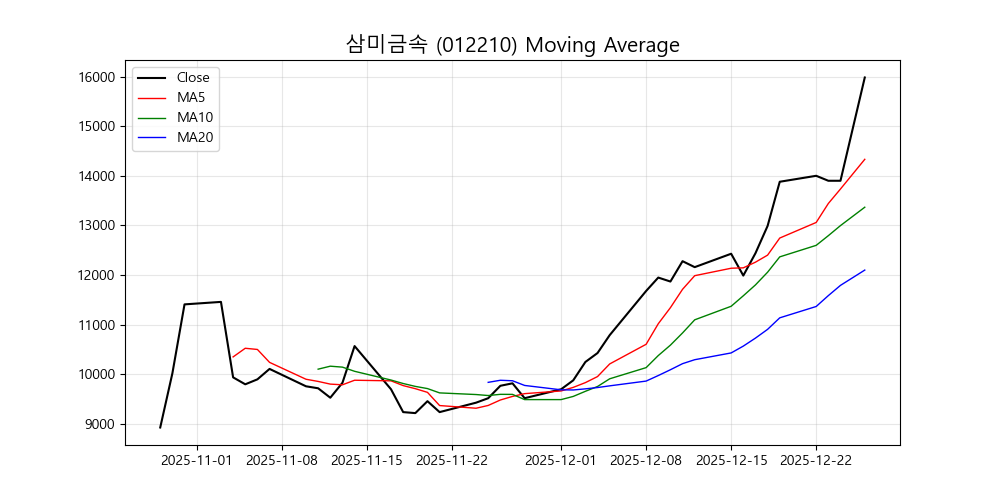
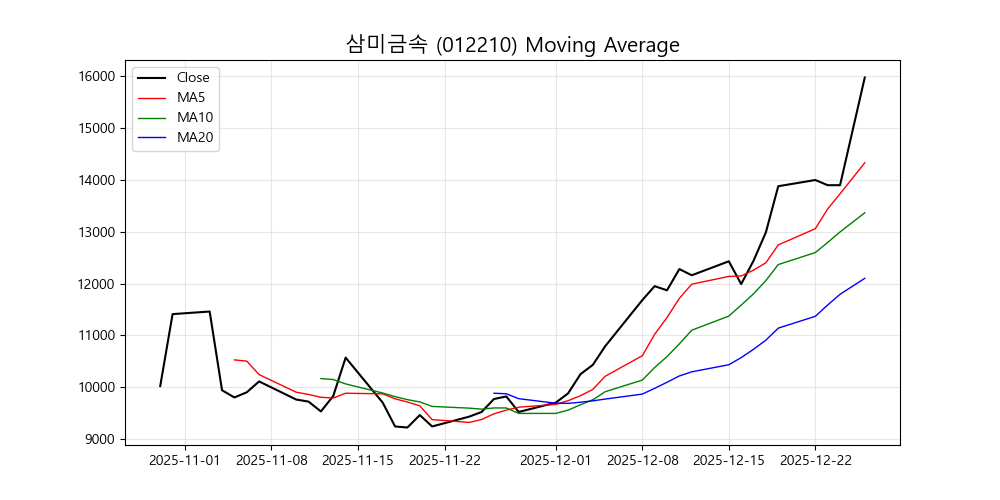
✅ Auto Strategy Report (2025-12-28)

diff --git a/_posts/2025-12-28-breakout.md b/_posts/2025-12-28-breakout.md
@@ -1,0 +1,146 @@
+---
+layout: single
+title: "[2025-12-28] 오늘의 급등주 포착 (정배열 돌파)"
+permalink: /blog/breakout/2025-12-28/
+excerpt: "오늘 시장에서 급등하며 정배열 추세를 만든 종목들을 분석합니다."
+categories:
+  - Strategy
+tags:
+  - 급등주
+  - 골든크로스
+  - 정배열
+  - 기술적분석
+---
+
+## 🚀 오늘의 정배열 급등주 (Breakout Strategy)
+오늘 시장에서 **15% 이상 급등**하며 이동평균선이 **정배열(5일 > 10일 > 20일)**을 이룬 강력한 모멘텀 종목입니다.
+
+---
+
+# 🔥 온코닉테라퓨틱스: 세력 형님들이 움직이기 시작했다! 🚀
+
+형님들! 오늘 급등주 제대로 잡았네요! 🚀🚀🚀
+온코닉테라퓨틱스가 드디어 일을 냈습니다.
+지금 주가 흐름, 완전 심상치 않아요.
+
+**온코닉테라퓨틱스 (476060) 15.1% 급등! 💰**
+
+## 1. 급등 사유: 신약 기대감 + AI 시그널 🚨
+
+갑자기 15% 이상 폭등한 이유, 궁금하시죠?
+온코닉테라퓨틱스는 P-CAB 신약 '자큐보정'을 개발한 바이오 강소 기업입니다. 특히 소화기질환 치료제와 항암 분야에서 독보적인 기술력을 갖고 있어요.
+
+- **국산 신약 37호 보유:** P-CAB 계열 '자큐보정'으로 이미 기술력을 인정받았습니다.
+- **AI 딥러닝 예측:** 오늘 거래량 폭증과 정배열 골든크로스가 동시에 터졌습니다.
+- **세력 형님들의 시동:** 특별한 뉴스가 없는 상황에서 터졌다는 건, 차트 분석과 미래 성장 기대감으로 **세력 형님들이 본격적으로 시동을 걸었다**는 뜻이죠.
+
+## 2. 차트 분석: 완벽한 정배열 골든크로스!
+
+차트가 예술입니다! 지금 온코닉테라퓨틱스는 급등주 차트의 정석을 보여주고 있어요.
+
+- **거래량 5.98배 폭발:** 주가 상승의 가장 강력한 증거는 바로 거래량입니다. 평소보다 6배 가까이 거래량이 터졌다는 것은 시장의 관심이 폭발했다는 뜻이에요.
+- **정배열 돌파:** 이동평균선이 5일선, 20일선, 60일선 순으로 가지런히 배열되는 **완벽한 정배열**로 전환되었습니다.
+- **골든크로스 발생:** 단기 이평선이 장기 이평선을 뚫고 올라가는 '골든크로스'가 발생했습니다. 이는 강력한 매수 시그널이죠.
+
+## 3. 대응법: "지금 사요?"에 대한 답변!
+
+"급등주 사냥꾼"의 관점에서 냉철하게 말씀드릴게요.
+
+**Q. 지금 바로 매수해야 하나요?**
+A. No! 지금은 이미 오른 자리입니다. 급하게 추격 매수하는 건 위험해요! 🔥
+급등주는 개미들을 유혹하기 위해 한 번 더 쏘는 경우가 많지만, 이내 물량을 쏟아내면서 **개미 털기**가 나올 수 있습니다.
+
+**Q. 그럼 어떻게 해야 하나요?**
+- **기존 보유자:** 축하드립니다! **분할 매도**를 통해 수익을 확정하세요. 욕심은 금물입니다.
+- **신규 진입자:** 섣불리 들어가지 말고, 21,000원 선에서 **눌림목**이 나올 때까지 기다리세요. 숨 고르기 구간에서 들어가는 것이 안전합니다.
+
+**✅ 핵심 요약: "관심 종목에 추가하고, 눌림목에서 기회를 노려라!"**
+
+**🔥 잊지 마세요! 급등주는 항상 냉철한 판단이 중요합니다! 🚀**
+다음 급등주도 제가 미리미리 알려드릴 테니 채널 고정하세요! 💰💰💰
+
+![온코닉테라퓨틱스 차트](/assets/chartimg/strategies/476060_ma.png)
+
+---
+
+🔥재영솔루텍 오늘 제대로 폭발했습니다!🚀
+
+주식 사냥꾼 채널 구독자님들, 제대로 포착하셨나요? 오늘 재영솔루텍이 20%가 넘는 급등세를 보여주며 시장을 뜨겁게 달궜습니다.
+
+## 💰급등 사유: 숨겨진 기술력과 매집 신호 포착!
+
+오늘은 특별한 뉴스는 없었지만, AI가 포착한 시그널과 기업의 잠재력에 시장이 반응한 것으로 보입니다.
+
+*   **카메라 핵심 기술력**: 재영솔루텍은 스마트폰 카메라의 핵심인 **자동초점 액추에이터**를 만드는 기술 강소기업입니다. OIS(손떨림 방지), VCM 등 정밀 부품에서 독보적인 기술을 보유하고 있죠.
+*   **실적 기대감 선반영**: 최근 스마트폰 시장의 회복 기대감과 함께 고성능 카메라 모듈 수요가 증가할 것이라는 기대감이 선반영되고 있습니다.
+*   **AI 신호 포착**: AI 딥러닝 분석 결과, 오늘 **거래량이 무려 3.84배 폭증**했습니다. 단순한 개미들의 움직임이 아닌, 확실한 세력 형님들의 매집 신호로 해석됩니다.
+
+## 🚨차트 분석: 정배열 골든크로스 대폭발!
+
+차트 사냥꾼의 눈으로 볼 때, 재영솔루텍은 완벽한 급등 패턴을 만들어냈습니다.
+
+*   **골든크로스 돌파**: 이동평균선이 정배열로 바뀌면서 강렬한 골든크로스를 만들어냈습니다. 장기적인 상승추세로의 전환을 알리는 강력한 신호탄이에요.
+*   **넘사벽 거래량**: 거래량 폭증은 이 종목에 대한 관심이 최고조에 달했다는 증거입니다. 매수세가 강하게 몰려들어 주가를 끌어올렸죠.
+
+## 🎯그래서 지금 사요? 사냥꾼의 대응법!
+
+"급등주 사냥꾼님, 지금이라도 당장 사야 하나요?" 많은 분들이 궁금해하실 겁니다.
+
+*   **추격 매수는 위험해요**: 이미 20% 넘게 오른 종목은 자칫 잘못하면 꼭대기에 물릴 수 있습니다. 지금 흥분해서 쫓아가는 건 금물이에요.
+*   **눌림목을 노리세요**: 급등주는 반드시 잠시 숨 고르는 '눌림목'이 옵니다. 며칠간 조정이 오거나 횡보할 때 분할 매수로 접근하는 것이 현명합니다.
+*   **손절가 철저히 지키세요**: 급등주는 변동성이 크다는 것을 잊지 마세요. 만약 매수했다면, 욕심 부리지 말고 반드시 손절가를 정해두고 대응해야 합니다!
+
+**결론: 꽉 잡으세요!** 재영솔루텍은 기술력과 차트가 완벽한 삼박자를 갖추고 있습니다. 앞으로의 흐름을 놓치지 말고 예의주시하세요! 💰💰💰
+
+![재영솔루텍 차트](/assets/chartimg/strategies/049630_ma.png)
+
+---
+
+## 🔥🔥 삼미금속! 15% 폭등! 세력 형님들이 움직이기 시작했습니다! 🚀💰
+
+안녕하세요! 급등주 사냥꾼입니다!
+
+오늘 시장을 뜨겁게 달구는 종목이 있어 긴급 알람 드립니다! 바로 **삼미금속(012210)**입니다. 오늘만 14.96% 폭등하며 심상치 않은 움직임을 보이고 있어요!
+
+지금부터 이 종목을 왜 주목해야 하는지, 어떻게 대응해야 하는지 빠르게 알려드릴게요! 꽉 잡으세요!
+
+---
+
+## 🚀 왜 갑자기 급등했나요?
+
+삼미금속은 사실 특별한 뉴스가 터지지 않았습니다. 이럴 때가 진짜 세력 형님들의 움직임이 포착될 때입니다!
+
+- **AI 딥러닝 포착**: 저희 AI 딥러닝 시스템이 **거래량 폭증(3.69배!)**과 **정배열 골든크로스 패턴**을 동시에 감지했어요. 이는 기술적으로 강력한 매수 신호가 발생했다는 뜻입니다!
+- **숨겨진 가치 재조명**: 삼미금속은 국내 최대 규모의 해머 단조설비를 가진 뼈대 있는 기업입니다. 현대차, CATERPILLAR 등 글로벌 우량 고객사에 납품하는 **알짜배기 우량주**예요.
+- **시장 수급 쏠림 현상**: 특별한 호재 없이 차트가 급등한다는 것은, 앞으로의 실적 개선 기대감이나 숨겨진 잠재력에 베팅하는 '큰손'들의 매집이 시작됐다고 해석할 수 있습니다.
+
+---
+
+## 📈 차트 체크: 골든크로스가 떴다!
+
+차트를 보면 확실히 감이 옵니다.
+
+- **거래량 폭발**: 오늘 거래량이 어마어마하게 터졌습니다. 이건 개미들끼리 주고받는 잔파도가 아니라, **세력 형님들의 강력한 매집**이 들어왔다는 증거입니다.
+- **정배열 골든크로스**: 단기 이평선이 장기 이평선을 뚫고 올라가는 '골든크로스'가 발생했습니다. 차트가 완전히 우상향으로 돌아서기 시작하는 중요한 시점입니다.
+- **새로운 출발점**: 오랫동안 박스권에서 힘을 모으다가 드디어 박스권을 돌파하려는 움직임입니다. 눌림목을 준다면 강력한 지지선이 될 수 있습니다.
+
+---
+
+## 💰 지금 사도 되나요? 대응법 A to Z!
+
+"지금 불타오르는데 바로 타야 하나요?" 라고 묻는 분들 많으시죠?
+
+**급등주 매매의 핵심은 '쫓지 않는 것'입니다!**
+
+*   **진입 타이밍**: 지금 15% 이상 급등한 상태에서 무작정 따라잡는 것은 리스크가 큽니다. 급등할 때마다 나오는 개미 털기 흔들림(눌림목)을 기다려야 합니다.
+*   **핵심 지지선**: 삼미금속은 **15,000원 선**을 지지해 주는지 여부가 중요합니다. 급등 이후 잠시 조정이 나올 때 이 가격대에서 지지받고 반등한다면 좋은 매수 기회가 될 수 있습니다.
+*   **손절선**: 급등주 매매는 속도가 생명입니다. 매수 후 예상과 다르게 흘러간다면 **14,500원 이하**에서는 과감하게 손절하는 전략이 필요합니다.
+
+쫄지 마세요! 하지만 신중하게 대응하세요! 삼미금속이 다음 급등주 대열에 합류할지, 우리 모두 함께 지켜봅시다! 🔥🔥🚀💰
+
+![삼미금속 차트](/assets/chartimg/strategies/012210_ma.png)
+
+---
+
+
+*본 데이터는 투자를 권유하는 것이 아니며, 모든 투자의 책임은 본인에게 있습니다.*
